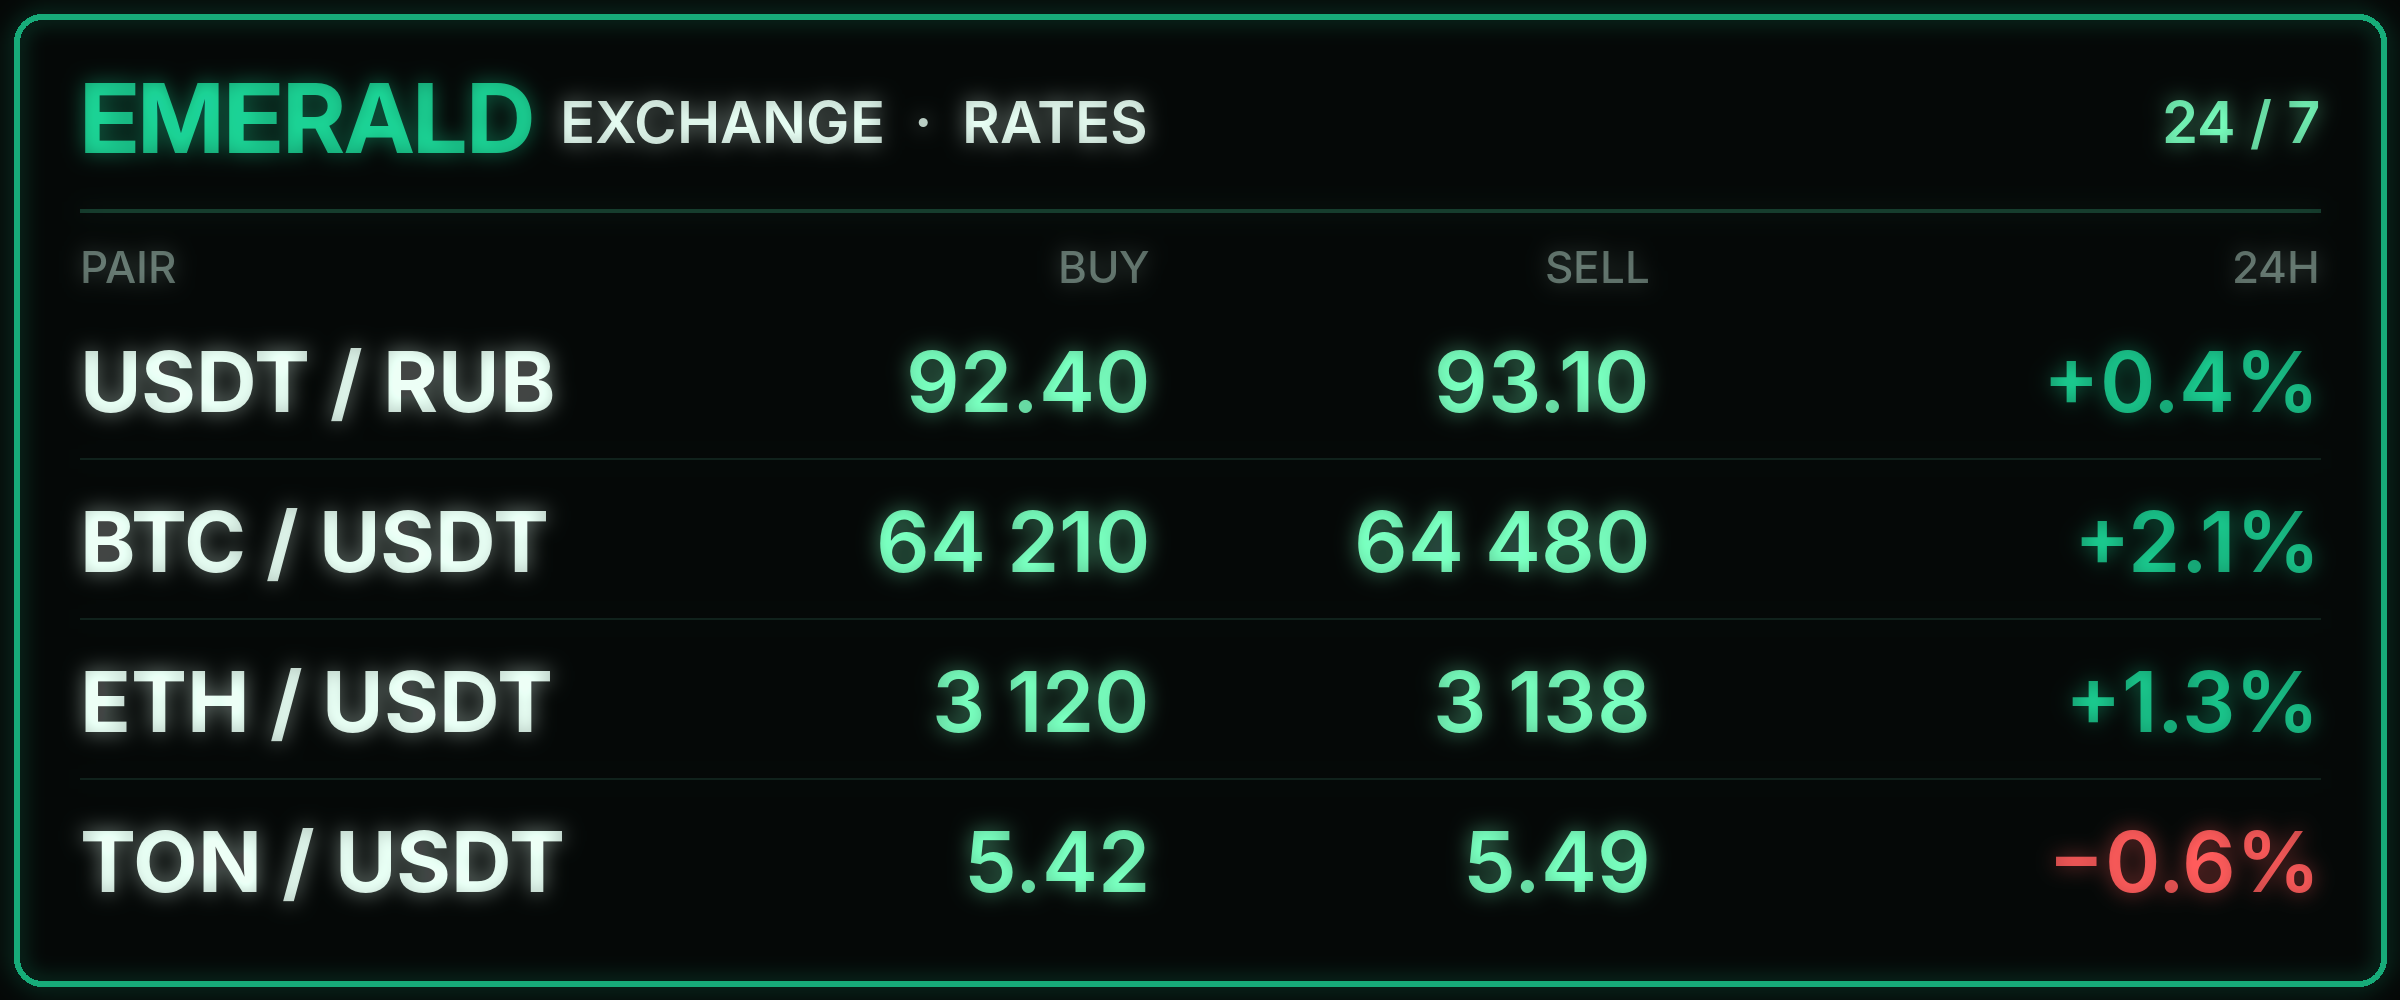
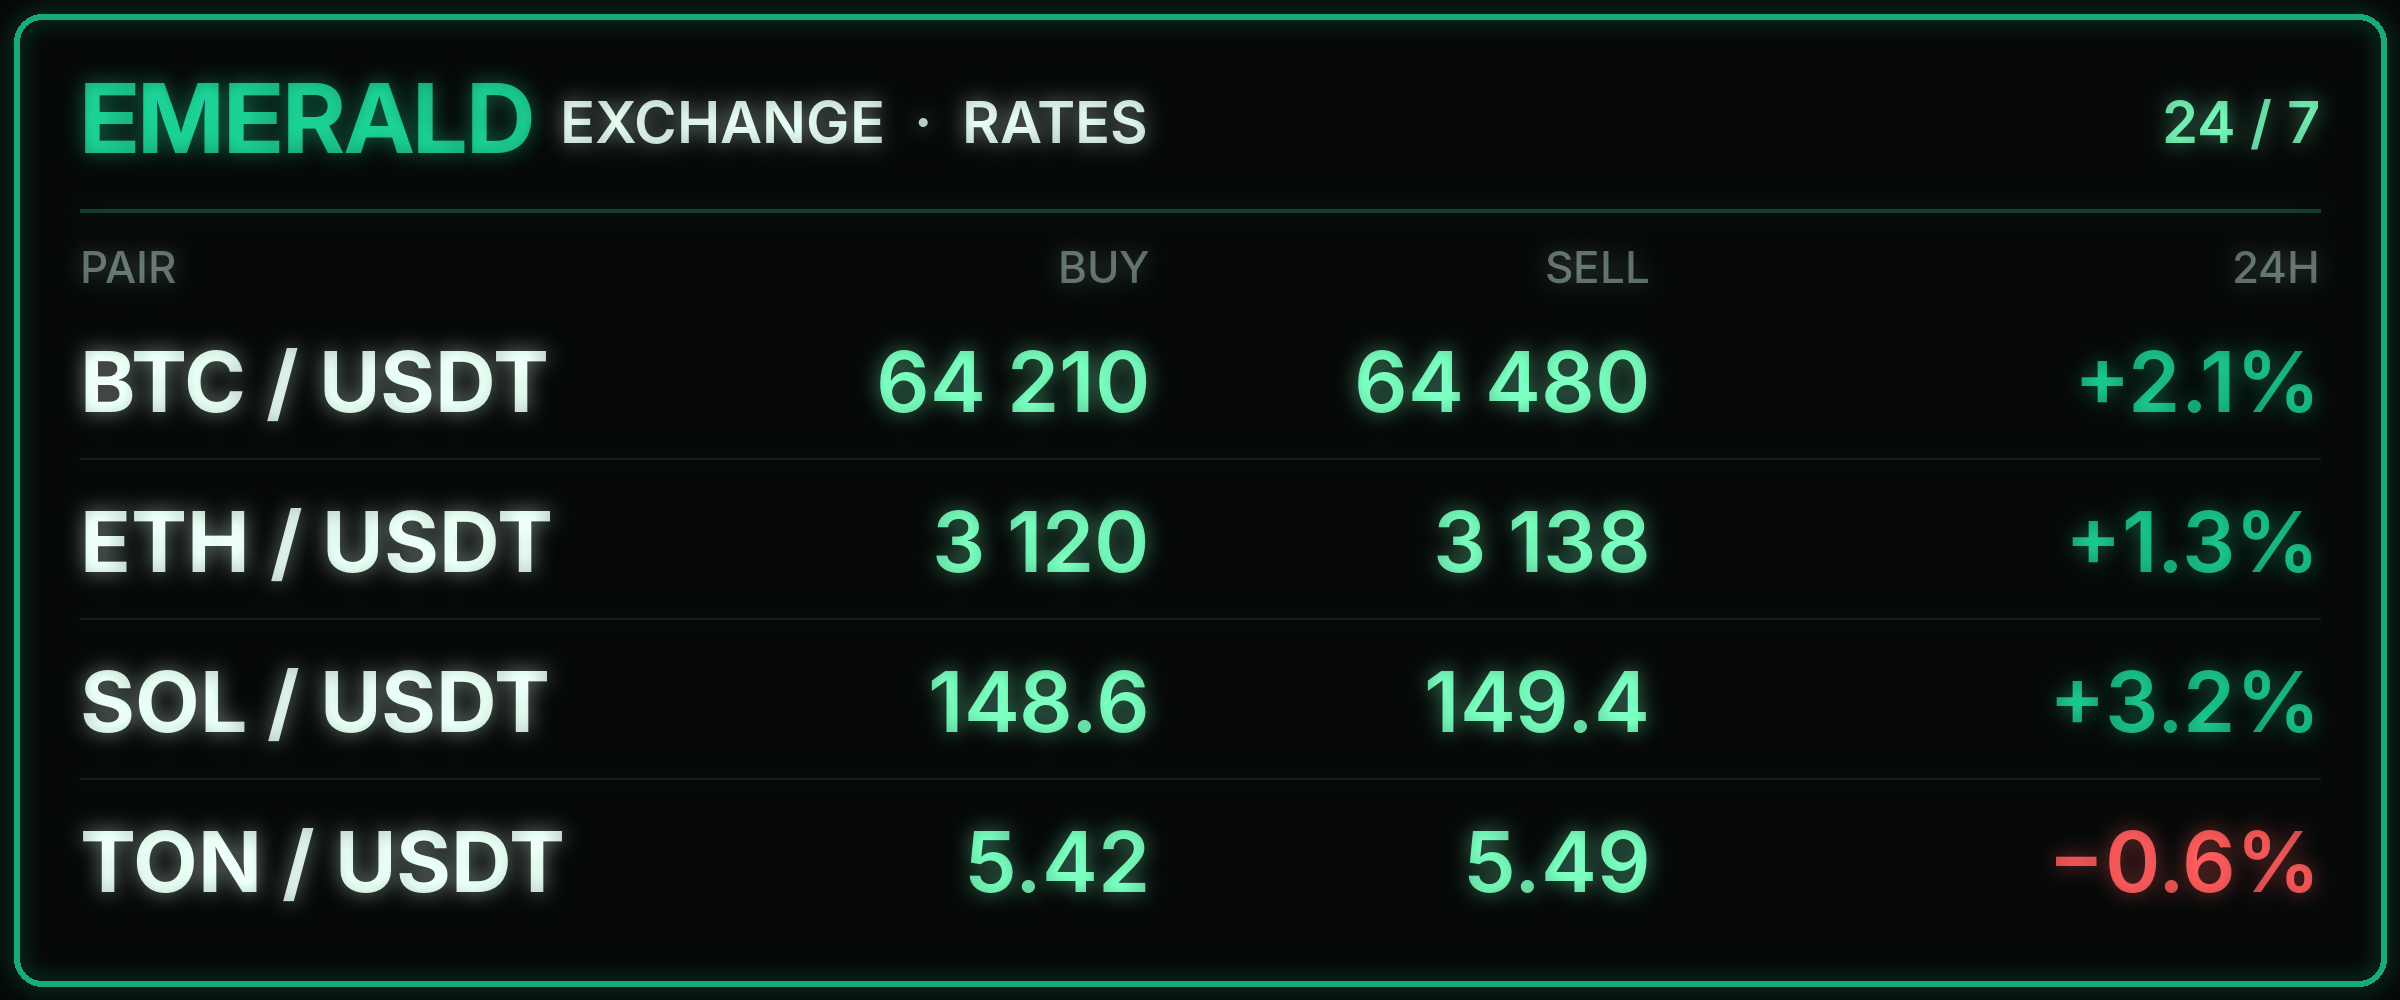
Rates board: crypto pairs only, no RUB
Claude-Session: https://claude.ai/code/session_014DoNtX2rrtAyDc8Z3AUM1P

diff --git a/cards/blender/rates_board.py b/cards/blender/rates_board.py
@@ -17,8 +17,8 @@ cols = (80, 1150, 1650, 2320)
 hdr = font("Inter-Medium.otf", 44)
 for x, t, a in zip(cols, ("PAIR", "BUY", "SELL", "24H"), ("la", "ra", "ra", "ra")):
     d.text((x if a == "la" else x, 240), t, font=hdr, fill=GREY, anchor=a)
-rows = [("USDT / RUB", "92.40", "93.10", "+0.4%"), ("BTC / USDT", "64 210", "64 480", "+2.1%"),
-        ("ETH / USDT", "3 120", "3 138", "+1.3%"), ("TON / USDT", "5.42", "5.49", "−0.6%")]
+rows = [("BTC / USDT", "64 210", "64 480", "+2.1%"), ("ETH / USDT", "3 120", "3 138", "+1.3%"),
+        ("SOL / USDT", "148.6", "149.4", "+3.2%"), ("TON / USDT", "5.42", "5.49", "−0.6%")]
 big, mono = font("Inter-Bold.otf", 84), font("Inter-SemiBold.otf", 84)
 for i, (p, b, s, ch) in enumerate(rows):
     y = 330 + i * 160
